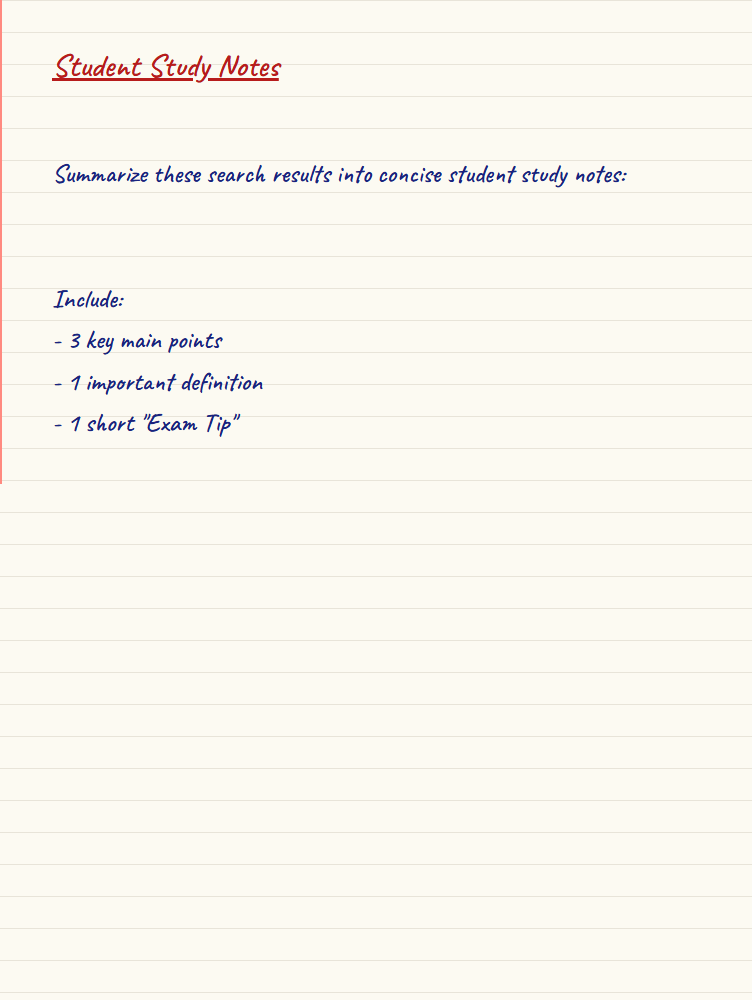
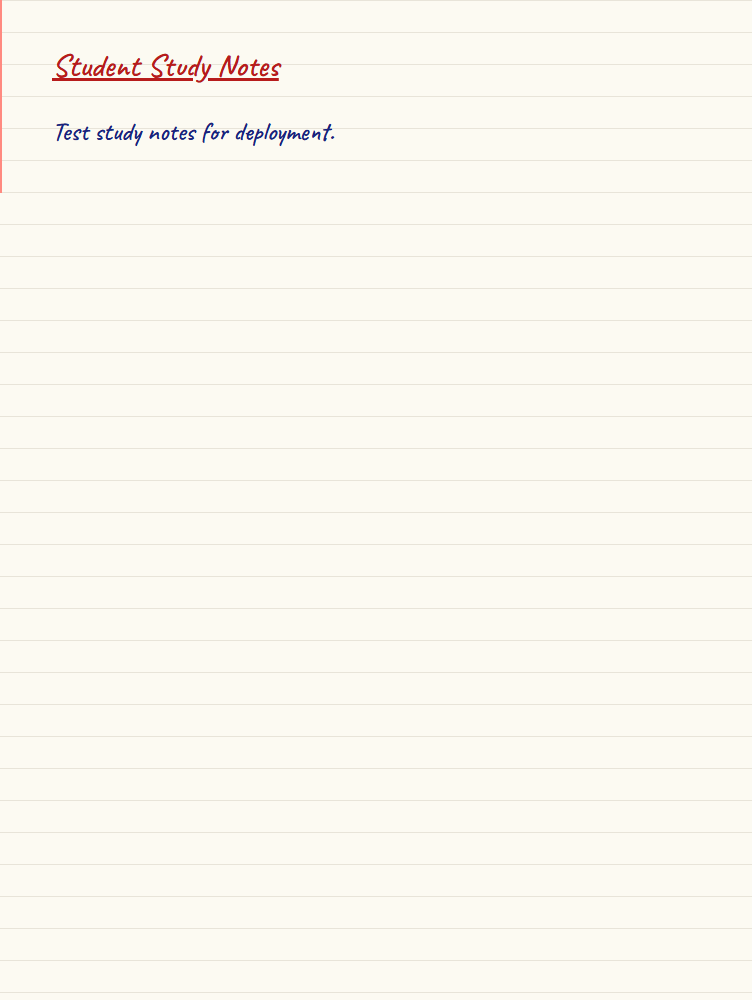
Add files via upload

Changed region(s): [[0.0612, 0.124, 0.8258, 0.186], [0.0918, 0.341, 0.3364, 0.434], [0.0612, 0.279, 0.1529, 0.31]]

diff --git a/nodes.py b/nodes.py
@@ -1,6 +1,7 @@
 # nodes.py
 import os
 import json
+import textwrap
 try:
     from dotenv import load_dotenv
     load_dotenv()
@@ -97,7 +98,17 @@ def researcher_node(state: AgentState):
                 except Exception:
                     summary = str(prompt)
     else:
-        summary = prompt
+        summary = (
+            f"## {query}\n\n"
+            "### 3 Key Main Points\n"
+            f"- {query} can be understood by identifying its purpose, main components, and practical uses.\n"
+            "- Break the topic into smaller ideas and connect each idea to a clear example.\n"
+            "- Review the important terms and test your understanding by explaining them in your own words.\n\n"
+            "### Important Definition\n"
+            f"**{query}:** The subject or concept being studied and explained.\n\n"
+            "### Exam Tip\n"
+            "Use the definition first, then support your answer with three concise points and an example."
+        )
     
     return {"summary_notes": summary}
 
@@ -143,7 +154,8 @@ def note_renderer_node(state: AgentState):
     os.makedirs(output_dir, exist_ok=True)
     screenshot_path = os.path.join(output_dir, "handwritten_notes.png")
     
-    # Try to create a screenshot with Playwright if available
+    # Prefer a browser-rendered image, then fall back to Pillow on hosted systems
+    # where Playwright's browser binary is not installed.
     try:
         import playwright.sync_api as pwy
 
@@ -154,14 +166,29 @@ def note_renderer_node(state: AgentState):
             page.screenshot(path=screenshot_path, full_page=True)
             browser.close()
     except Exception:
-        # Playwright not available or failed — skip screenshot creation
-        screenshot_path = ""
+        try:
+            from PIL import Image, ImageDraw, ImageFont
+
+            image = Image.new("RGB", (750, 1000), "#fcfaf2")
+            draw = ImageDraw.Draw(image)
+            title_font = ImageFont.load_default(size=28)
+            body_font = ImageFont.load_default(size=18)
+            draw.text((50, 45), "Student Study Notes", fill="#b71c1c", font=title_font)
+            y_position = 110
+            for line in textwrap.wrap(state.get("summary_notes", ""), width=64):
+                draw.text((55, y_position), line, fill="#1a237e", font=body_font)
+                y_position += 30
+                if y_position > 950:
+                    break
+            image.save(screenshot_path)
+        except Exception:
+            screenshot_path = ""
     return {"html_content": html_content, "image_path": screenshot_path}
 
 def critic_node(state: AgentState):
     """Verifies that the generated output meets quality standards."""
     notes = state.get("summary_notes", "")
-    has_content = len(notes) > 50
+    has_content = len(notes.strip()) >= 20
     has_image = os.path.exists(state.get("image_path", ""))
     
     is_approved = has_content and has_image
